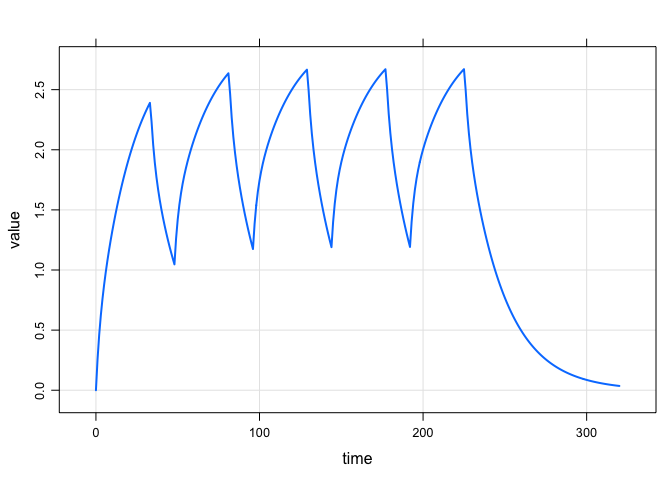
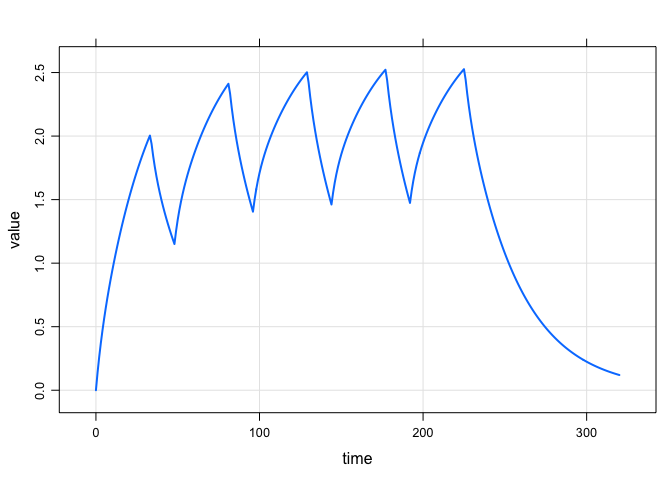
remake modmrg.R

diff --git a/StudyGroup102016/annotated.html b/StudyGroup102016/annotated.html
@@ -124,7 +124,7 @@ $(document).ready(function () {
 <li>Author: Kyle Baron, PhWho?</li>
 <li>Client: Pills, Inc</li>
 <li>Project Number: ABC123xyz</li>
-<li>Date: Fri Oct 7 16:01:13 2016</li>
+<li>Date: Tue Oct 11 11:53:59 2016</li>
 <li>Parent: <code>1013.cpp</code></li>
 </ul>
 </div>
@@ -171,14 +171,17 @@ double Vi  = V*exp(EV);
 double KAi = KA;
 F_GUT      = F1;
 
+$PKMODEL
+ncmt=1, depot=TRUE, trans=11
+
 $TABLE
 double DV = CENT/V;</code></pre>
 </div>
 <div id="mrgsolve" class="section level1">
 <h1><code>mrgsolve</code></h1>
 <ul>
-<li>Date: Fri Oct 7 16:01:13 2016</li>
-<li>Version: 0.7.6.9020</li>
+<li>Date: Tue Oct 11 11:53:59 2016</li>
+<li>Version: 0.7.6.9022</li>
 </ul>
 </div>
 

diff --git a/StudyGroup102016/model.cpp b/StudyGroup102016/model.cpp
@@ -1,24 +1,45 @@
 [PROB]
-A plain old model. 
-Let's turn this into annotated model.
+
+# Annotated model
+  - Author: Kyle
+  - Date: `r date()`
+  
+```{r,echo=TRUE} 
+  mod %>% 
+    ev(amt=100, ii=12, addl=3) %>%
+    mrgsim %>% plot
+```
 
 [SET] delta = 0.1, end=48
 
-[PARAM] CL = 1, V = 2, KA = 3
+[PARAM] @annotated
+CL :  1 : Clearance (L/hr)
+V  :  2 : Volume of distribution (L)
+KA :  3 : Absorption rate constant (1/hr)
 
-[FIXED]  F1 = 0.8
+[PARAM]
+KIN = 100, KOUT = 0.2, EC50 = 10
+    
+[FIXED]  @annotated
+F1 :  0.8 : Bioavability
 
-[THETA]
-1.1 0.32 5
+[THETA] @annotated
+1.1  : TVCL
+0.32 : Exponent WT ~ CL
+5    : TVVC
 
-[CMT] GUT 
+[CMT] @annotated
+GUT : Dosing compartment (mg) 
 
-[INIT] CENT = 10
+[INIT] @annotated
+CENT :  10 : Central compartment (mg)
 
-[OMEGA]
-@cor @labels ECL EV
-1 0.9 3
-
+[OMEGA] @cor @annotated
+ECL : 1 : ETA on CL
+EV  : 0.9 3 : ETA on VC
+EKA : 0.2 0.4 1 : ETA on KA
+    
+    
 [MAIN]
 double CLi = CL*exp(ECL);
 double Vi  = V*exp(EV);
@@ -30,6 +51,13 @@ F_GUT      = F1;
 [TABLE]
 double DV = CENT/V;
 
-[CAPTURE] DV
+[CAPTURE]  @annotated
+DV : Plasma concentration (mg/L)
+
+
+
+
+  
+
 
 

diff --git a/misc_demo/modmrg.md b/misc_demo/modmrg.md
@@ -28,6 +28,52 @@ mod %>%
 
 ![](img/modmrg-unnamed-chunk-3-1.png)
 
+``` r
+see(mod)
+```
+
+    . 
+    . Model file:  pk2cmt.cpp 
+    .  $PROB
+    .  # Model: `pk2cmt`
+    .    - Two-compartment PK model
+    .        - Dual first-order absorption
+    .        - Optional nonlinear clearance from `CENT`
+    .    - Source: `mrgsolve` internal library
+    .    - Date: `r Sys.Date()`
+    .    - Version: `r packageVersion("mrgsolve")`
+    .    
+    .  $PARAM @annotated
+    .  CL   :  1  : Clearance (volume/time)
+    .  VC   : 20  : Central volume (volume)
+    .  Q    :  2  : Inter-compartmental clearance (volume/time)
+    .  VP   : 10  : Peripheral volume of distribution (volume)
+    .  KA1  :  1  : Absorption rate constant 1 (1/time)
+    .  KA2  :  1  : Absorption rate constant 2 (1/time)
+    .  VMAX :  0  : Maximum velocity (mass/time)
+    .  KM   :  2  : Michaelis Constant (mass/volume)
+    .  
+    .  $CMT  @annotated
+    .  EV1    : First extravascular compartment (mass)
+    .  CENT   : Central compartment (mass)
+    .  PERIPH : Peripheral compartment (mass) 
+    .  EV2    : Second extravascular compartment (mass)
+    .    
+    .  $GLOBAL 
+    .  #define CP (CENT/VC)
+    .  #define CT (PERIPH/VP)
+    .  #define CLNL (VMAX/(KM+CP))
+    .  
+    .  $ODE
+    .  dxdt_EV1 = -KA1*EV1;
+    .  dxdt_EV2 = -KA2*EV2;
+    .  dxdt_CENT = KA1*EV1 + KA2*EV2 - (CL+CLNL+Q)*CP  + Q*CT;
+    .  dxdt_PERIPH = Q*CP - Q*CT;
+    .  
+    .  $CAPTURE  @annotated
+    .  CP : Plasma concentration (mass/time)
+    . 
+
 ### Viral model
 
 ``` r
@@ -53,24 +99,78 @@ out <-
 plot(out,logChange~time,groups=delta,auto.key=list(columns=4))
 ```
 
-![](img/modmrg-unnamed-chunk-4-1.png)
+![](img/modmrg-unnamed-chunk-6-1.png)
 
-### Ooops
+### PK/PD model
 
 ``` r
-mod <- mread("kylebaron", modlib())
+mod <- mread("irm1", modlib())
 ```
 
-    . mrgsolve internal library:
+    . Compiling irm1 ...
 
-    .   pk1cmt
-    .   pk2cmt
-    .   pk3cmt
-    .   irm1
-    .   irm2
-    .   irm3
-    .   emax
-    .   tmdd
-    .   viral1
-    .   viral2
-    .   effect
+    . done.
+
+``` r
+see(mod)
+```
+
+    . 
+    . Model file:  irm1.cpp 
+    .  $PROB
+    .  # Model: `irm1`
+    .    - Indirect response model, type 1
+    .        - Inhibition of response input
+    .        - Two-compartment PK model
+    .        - Optional nonlinear clearance
+    .    - Source: `mrgsolve` internal library
+    .    - Date: `r Sys.Date()`
+    .    - Version: `r packageVersion("mrgsolve")`
+    .  
+    .  $PARAM @annotated
+    .  CL   :  1  : Clearance (volume/time)
+    .  VC   : 20  : Central volume (volume)
+    .  Q    :  2  : Inter-compartmental clearance (volume/time)
+    .  VP   : 10  : Peripheral volume of distribution (volume)
+    .  KA1  :  1  : Absorption rate constant 1 (1/time)
+    .  KA2  :  1  : Absorption rate constant 2 (1/time)
+    .  KIN  : 10  : Response in rate constant (1/time)
+    .  KOUT :  2  : Response out rate constant (1/time)
+    .  IC50 :  2  : Concentration for 50% of max inhibition (mass/volume)
+    .  IMAX :  1  : Maximum inhibition 
+    .  n    :  1  : Emax model sigmoidicity
+    .  VMAX :  0  : Maximum reaction velocity (mass/time)
+    .  KM   :  2  : Michaelis constant (mass/volume)
+    .  
+    .  $CMT  @annotated
+    .  EV1    : First extravascular compartment (mass)
+    .  CENT   : Central compartment (mass)
+    .  PERIPH : Peripheral compartment (mass) 
+    .  RESP   : Response compartment
+    .  EV2    : Second extravascular compartment (mass)
+    .  
+    .  $GLOBAL
+    .  #define CP (CENT/VC)
+    .  #define CT (PERIPH/VP)
+    .  #define CLNL (VMAX/(KM+CP))
+    .  #define INH (IMAX*pow(CP,n)/(pow(IC50,n)+pow(CP,n)))
+    .  
+    .  $MAIN
+    .  RESP_0 = KIN/KOUT;
+    .  
+    .  $ODE
+    .  dxdt_EV1    = -KA1*EV1;
+    .  dxdt_EV2    = -KA2*EV2;
+    .  dxdt_CENT   =  KA1*EV1 + KA2*EV2 - (CL+CLNL+Q)*CP  + Q*CT;
+    .  dxdt_PERIPH =  Q*CP - Q*CT;
+    .  dxdt_RESP   =  KIN*(1-INH) - KOUT*RESP;
+    .  
+    .  $CAPTURE @annotated
+    .  CP : Plasma concentration (mass/volume)
+
+``` r
+mod %>% ev(amt=700,time=50) %>% param(n=1.5,KOUT=0.02) %>%
+  mrgsim(end=480) %>% plot(CP+RESP~.)
+```
+
+![](img/modmrg-unnamed-chunk-9-1.png)
